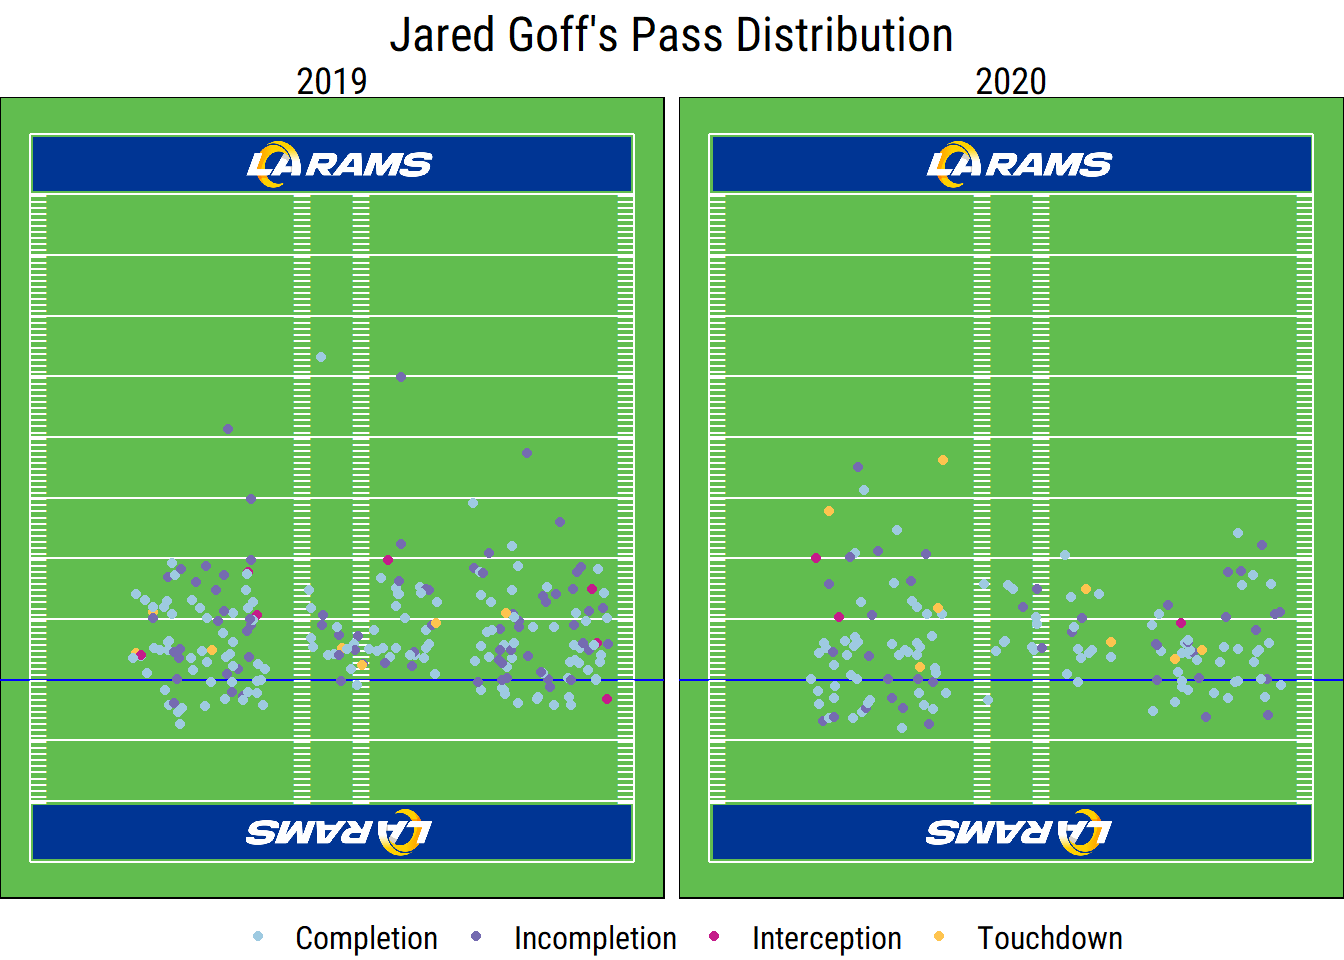
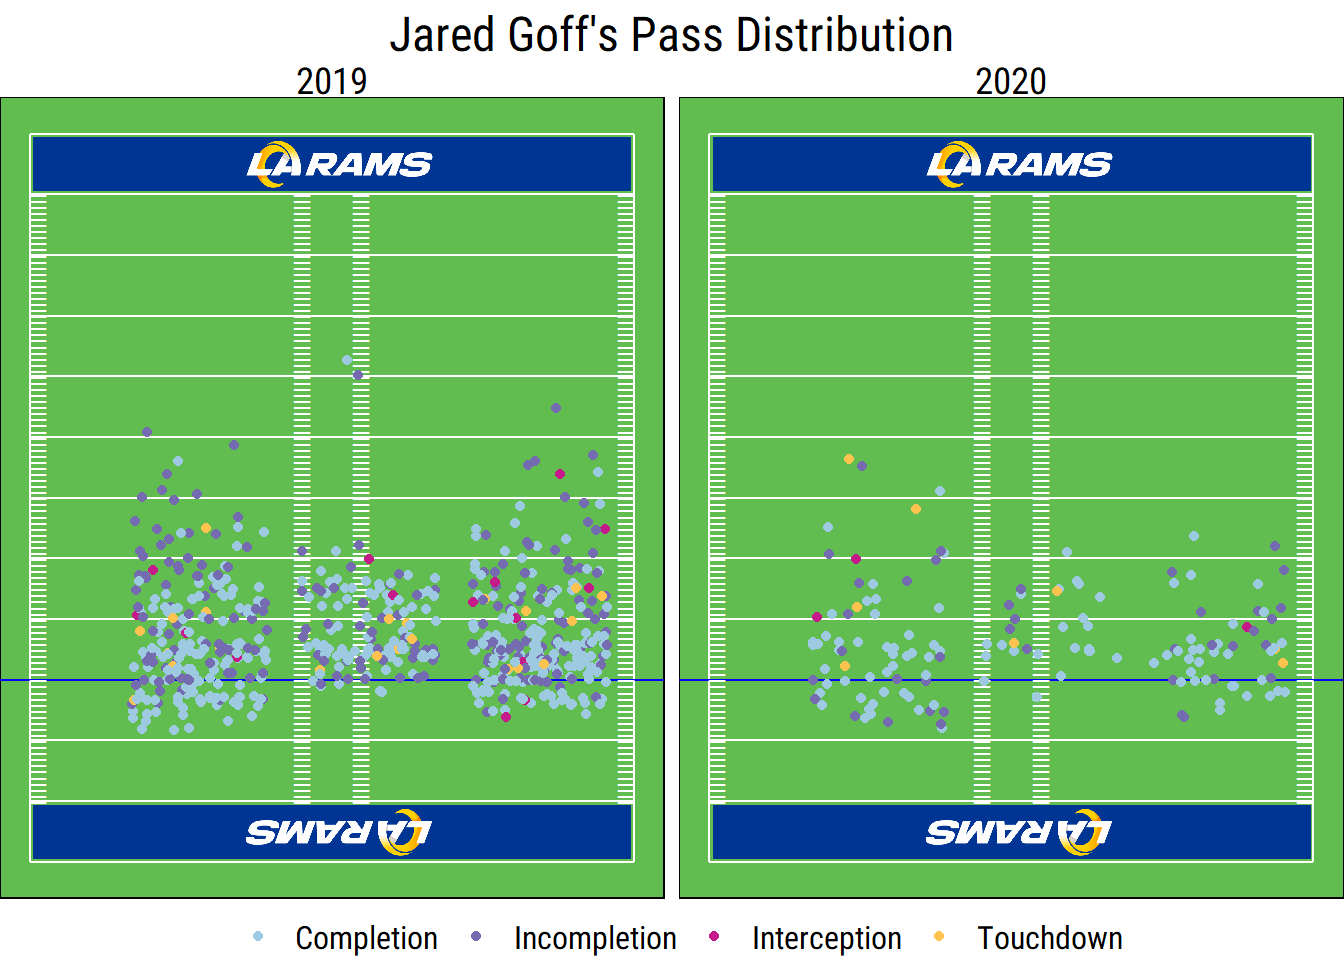
Post 1

diff --git a/content/post/goff-short-passing/index.html b/content/post/goff-short-passing/index.html
@@ -35,7 +35,6 @@ passing_pbp &lt;- map_df(career, function(x) {
     mutate(year = x)
 }) %&gt;%
   filter(
-    week &lt;= 5,
     play_type == &quot;pass&quot;,
     qb_kneel == &quot;0&quot;,
     qb_spike == &quot;0&quot;
@@ -96,10 +95,12 @@ passing_pbp %&gt;%
   ) %&gt;%
   select(Year = year, Player = passer_player_name, `Comp %`, `TD/Int`, CPOE, PR, `EPA/Play` = epa) %&gt;%
   arrange(Year) %&gt;%
-  reactable(outlined = TRUE, striped = TRUE, highlight = TRUE, compact = TRUE)</code></pre>
+  reactable(outlined = TRUE, striped = TRUE, highlight = TRUE, compact = TRUE, theme = reactableTheme(
+    stripedColor = &quot;#eff7fa&quot;
+  ))</code></pre>
 <div id="htmlwidget-1" class="reactable html-widget" style="width:auto;height:auto;"></div>
-<script type="application/json" data-for="htmlwidget-1">{"x":{"tag":{"name":"Reactable","attribs":{"data":{"Year":[2017,2018,2019,2020],"Player":["J.Goff","J.Goff","J.Goff","J.Goff"],"Comp %":[62.1,64.9,62.9,67.4],"TD/Int":[4,2.7,1.4,2.5],"CPOE":["-3 (22)","0.6 (18)","-3.6 (34)","0.6 (20)"],"PR":["100.5 (6)","101.1 (8)","86.5 (25)","101.4 (11)"],"EPA/Play":["0.19 (4)","0.44 (1)","0.09 (9)","0.29 (5)"]},"columns":[{"accessor":"Year","name":"Year","type":"numeric"},{"accessor":"Player","name":"Player","type":"character"},{"accessor":"Comp %","name":"Comp %","type":"numeric"},{"accessor":"TD/Int","name":"TD/Int","type":"numeric"},{"accessor":"CPOE","name":"CPOE","type":"character"},{"accessor":"PR","name":"PR","type":"character"},{"accessor":"EPA/Play","name":"EPA/Play","type":"character"}],"defaultPageSize":10,"paginationType":"numbers","showPageInfo":true,"minRows":1,"highlight":true,"outlined":true,"striped":true,"compact":true,"dataKey":"c832ce952d8a6752725c994f62b88af7","key":"c832ce952d8a6752725c994f62b88af7"},"children":[]},"class":"reactR_markup"},"evals":[],"jsHooks":[]}</script>
-<p>Goff went 0-7 during his rookie campaign with a floundering Rams team, and his 2016 stats are his worst across-the-board. His stats picked up immediately after the arrival of Sean McVay, yet so far Goff has been best by nearly all of these measures in 2020. While it’s still early, the Rams passing game has clearly improved since 2019. The table also shows how Goff ranks in CPOE, passer rating, and EPA/play among NFL quarterbacks with at least 128 passing attempts. He’s never ranked highly in CPOE as modeled by NGS, but has fared much better in passer rating and EPA/play. Goff ranks 11th in the former and 5th in the latter in 2020. Goff isn’t completing many more passes than expected given factors such as wide receiver separation, pressure, and throw length, but his high rankings in the other measures indicates he’s performing better in other facets of the game.</p>
+<script type="application/json" data-for="htmlwidget-1">{"x":{"tag":{"name":"Reactable","attribs":{"data":{"Year":[2016,2017,2018,2019,2020],"Player":["J.Goff","J.Goff","J.Goff","J.Goff","J.Goff"],"Comp %":[54.6,62.1,64.9,62.9,67.4],"TD/Int":[0.7,4,2.7,1.4,2.5],"CPOE":["-5.4 (37)","-3 (22)","0.6 (18)","-3.6 (34)","0.6 (20)"],"PR":["63.6 (38)","100.5 (6)","101.1 (8)","86.5 (25)","101.4 (11)"],"EPA/Play":["-0.41 (35)","0.15 (8)","0.19 (4)","0.09 (13)","0.29 (5)"]},"columns":[{"accessor":"Year","name":"Year","type":"numeric"},{"accessor":"Player","name":"Player","type":"character"},{"accessor":"Comp %","name":"Comp %","type":"numeric"},{"accessor":"TD/Int","name":"TD/Int","type":"numeric"},{"accessor":"CPOE","name":"CPOE","type":"character"},{"accessor":"PR","name":"PR","type":"character"},{"accessor":"EPA/Play","name":"EPA/Play","type":"character"}],"defaultPageSize":10,"paginationType":"numbers","showPageInfo":true,"minRows":1,"highlight":true,"outlined":true,"striped":true,"compact":true,"theme":{"stripedColor":"#eff7fa"},"dataKey":"69dd01667df80ce0dac2aa44b8e92030","key":"69dd01667df80ce0dac2aa44b8e92030"},"children":[]},"class":"reactR_markup"},"evals":[],"jsHooks":[]}</script>
+<p>Goff went 0-7 during his rookie campaign with a floundering Rams team, and his 2016 stats are his worst across-the-board. He picked up immediately after the arrival of Sean McVay, yet so far Goff has been best by nearly all of these measures in 2020. While it’s still early, the Rams passing game has clearly improved since 2019. The table also shows how Goff ranks in CPOE, passer rating, and EPA/play among NFL quarterbacks with at least 128 passing attempts. He’s never ranked highly in CPOE as modeled by NGS, but has fared much better in passer rating and EPA/play. Goff ranks 11th in the former and 5th in the latter in 2020. Goff isn’t completing many more passes than expected given factors such as wide receiver separation, pressure, and throw length, but his high rankings in the other measures indicates he’s performing better in other facets of the game.</p>
 <pre class="r"><code># is completion already here somewhere?
 goff_passing &lt;- passing_pbp %&gt;%
   filter(
@@ -178,17 +179,11 @@ passing_pbp %&gt;%
     `YAC/C` = round(mean(yards_after_catch, na.rm = TRUE), digits = 1),
     `Yds/C` = round(mean(yards_gained, na.rm = TRUE), digits = 1)
   ) %&gt;%
-  reactable(outlined = TRUE, striped = TRUE, highlight = TRUE, columns = list(
-    Player = colDef(cell = function(value) {
-      image &lt;- img(src = sprintf(&quot;images/%s.jpg&quot;, value), height = &quot;24px&quot;, alt = value)
-      tagList(
-        div(style = list(display = &quot;inline-block&quot;, width = &quot;45px&quot;), image),
-        value
-      )
-    })
+  reactable(outlined = TRUE, striped = TRUE, highlight = TRUE, theme = reactableTheme(
+    stripedColor = &quot;#eff7fa&quot;
   ))</code></pre>
 <div id="htmlwidget-2" class="reactable html-widget" style="width:auto;height:auto;"></div>
-<script type="application/json" data-for="htmlwidget-2">{"x":{"tag":{"name":"Reactable","attribs":{"data":{"Year":[2017,2018,2019,2020],"Player":["J.Goff","J.Goff","J.Goff","J.Goff"],"Completions":[163,166,222,152],"Avg. IAY":[8.6,8.4,7.9,6.2],"AY/C":[7,7.3,6.5,5.6],"YAC/C":[6.7,7.1,5.3,7],"Yds/C":[13.6,14.4,11.8,12.6]},"columns":[{"accessor":"Year","name":"Year","type":"numeric"},{"accessor":"Player","name":"Player","type":"character","cell":[{"name":"Fragment","attribs":[],"children":[{"name":"div","attribs":{"style":{"display":"inline-block","width":"45px"}},"children":[{"name":"img","attribs":{"src":"images/J.Goff.jpg","height":"24px","alt":"J.Goff"},"children":[]}]},"J.Goff"]},{"name":"Fragment","attribs":[],"children":[{"name":"div","attribs":{"style":{"display":"inline-block","width":"45px"}},"children":[{"name":"img","attribs":{"src":"images/J.Goff.jpg","height":"24px","alt":"J.Goff"},"children":[]}]},"J.Goff"]},{"name":"Fragment","attribs":[],"children":[{"name":"div","attribs":{"style":{"display":"inline-block","width":"45px"}},"children":[{"name":"img","attribs":{"src":"images/J.Goff.jpg","height":"24px","alt":"J.Goff"},"children":[]}]},"J.Goff"]},{"name":"Fragment","attribs":[],"children":[{"name":"div","attribs":{"style":{"display":"inline-block","width":"45px"}},"children":[{"name":"img","attribs":{"src":"images/J.Goff.jpg","height":"24px","alt":"J.Goff"},"children":[]}]},"J.Goff"]}]},{"accessor":"Completions","name":"Completions","type":"numeric"},{"accessor":"Avg. IAY","name":"Avg. IAY","type":"numeric"},{"accessor":"AY/C","name":"AY/C","type":"numeric"},{"accessor":"YAC/C","name":"YAC/C","type":"numeric"},{"accessor":"Yds/C","name":"Yds/C","type":"numeric"}],"defaultPageSize":10,"paginationType":"numbers","showPageInfo":true,"minRows":1,"highlight":true,"outlined":true,"striped":true,"dataKey":"255dff98d93582b4df32837037070bd1","key":"255dff98d93582b4df32837037070bd1"},"children":[]},"class":"reactR_markup"},"evals":[],"jsHooks":[]}</script>
+<script type="application/json" data-for="htmlwidget-2">{"x":{"tag":{"name":"Reactable","attribs":{"data":{"Year":[2016,2017,2018,2019,2020],"Player":["J.Goff","J.Goff","J.Goff","J.Goff","J.Goff"],"Completions":[204,475,559,625,152],"Avg. IAY":[6.9,7.9,8.7,7.7,6.2],"AY/C":[4.6,6.1,7,6.1,5.6],"YAC/C":[5.1,6.7,5.8,5.7,7],"Yds/C":[9.7,12.8,12.9,11.8,12.6]},"columns":[{"accessor":"Year","name":"Year","type":"numeric"},{"accessor":"Player","name":"Player","type":"character"},{"accessor":"Completions","name":"Completions","type":"numeric"},{"accessor":"Avg. IAY","name":"Avg. IAY","type":"numeric"},{"accessor":"AY/C","name":"AY/C","type":"numeric"},{"accessor":"YAC/C","name":"YAC/C","type":"numeric"},{"accessor":"Yds/C","name":"Yds/C","type":"numeric"}],"defaultPageSize":10,"paginationType":"numbers","showPageInfo":true,"minRows":1,"highlight":true,"outlined":true,"striped":true,"theme":{"stripedColor":"#eff7fa"},"dataKey":"a4822bd09fd087324949dfc05d1f14b1","key":"a4822bd09fd087324949dfc05d1f14b1"},"children":[]},"class":"reactR_markup"},"evals":[],"jsHooks":[]}</script>
 <p>The table shows two types of air yards: completed air yards and intended air yards, which includes completed air yards and the potential air yards from incomplete passes. It also shows the Rams YAC per completion and total yards per completion. Goff’s winless 7-game rookie season is once again an outlier. In 2020, his completions have been about a yard shorter through the air compared to his average over the previous three seasons, but they’re gaining about an extra yard after the catch. The biggest change is in his intended air yards, though, which have declined 25% compared to average.</p>
 <p>Finally, I wanted to see if Goff has been throwing to different areas of the field. In addition to pass yardage data, nflfastR also has indicators for whether the pass was thrown to the right, left, or middle of the field. This isn’t as strong as data that pinpoints the location of a catch on the field, but is still interesting. Mainly, I had a lot of fun messing around with ggplot2 to create a nice facsimile of a football field for my scatter plot. I used the code from the <a href="https://github.com/nfl-football-ops/Big-Data-Bowl">Big Data Bowl</a> as a starting point and found an <a href="https://www.google.com/imgres?imgurl=https://ramsnewlook.com/wp-content/uploads/2020/03/LA-ltyp.png&amp;imgrefurl=https://ramsnewlook.com/&amp;tbnid=SY-ryDGAlFhGnM&amp;vet=1&amp;docid=CmxMc3tBJ9cbiM&amp;w=2000&amp;h=438&amp;source=sh/x/im">image</a> via Google to serve create my endzone.</p>
 <pre class="r"><code>passes_2020 &lt;- passing_pbp %&gt;%
